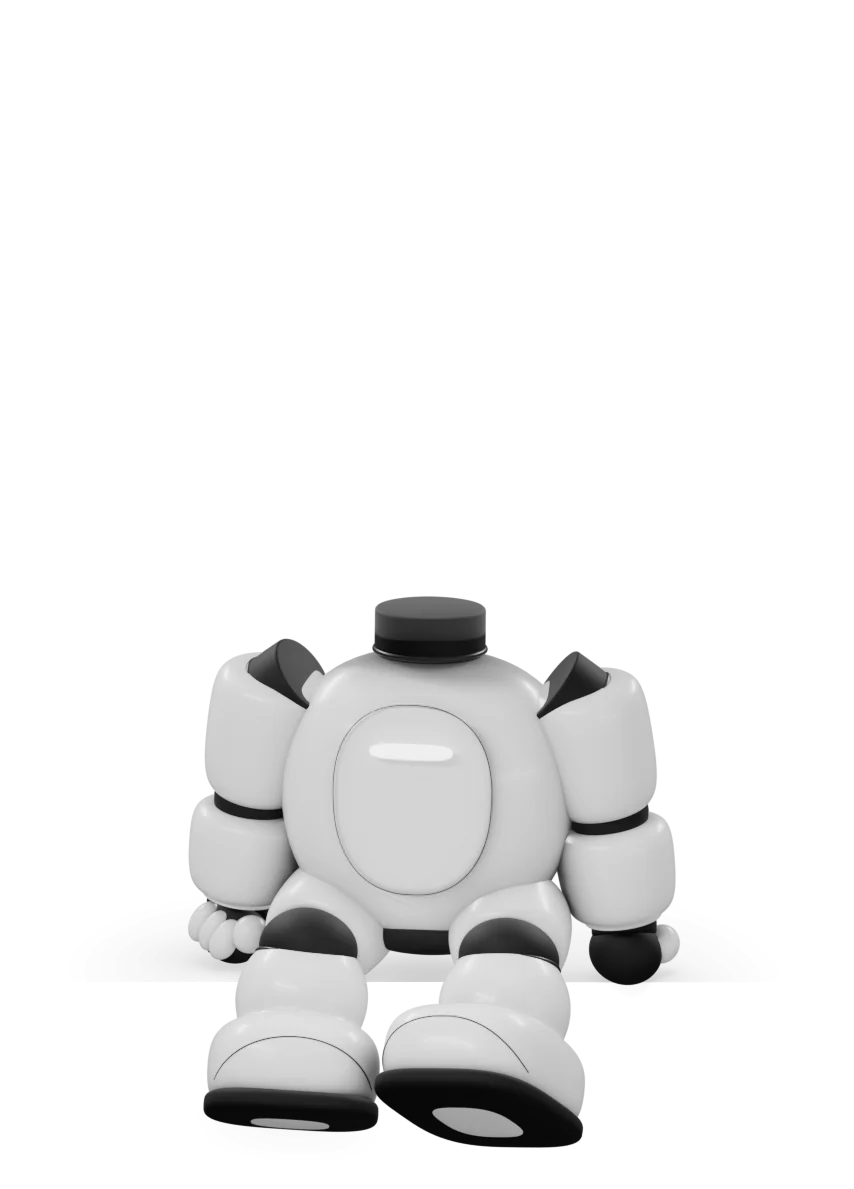
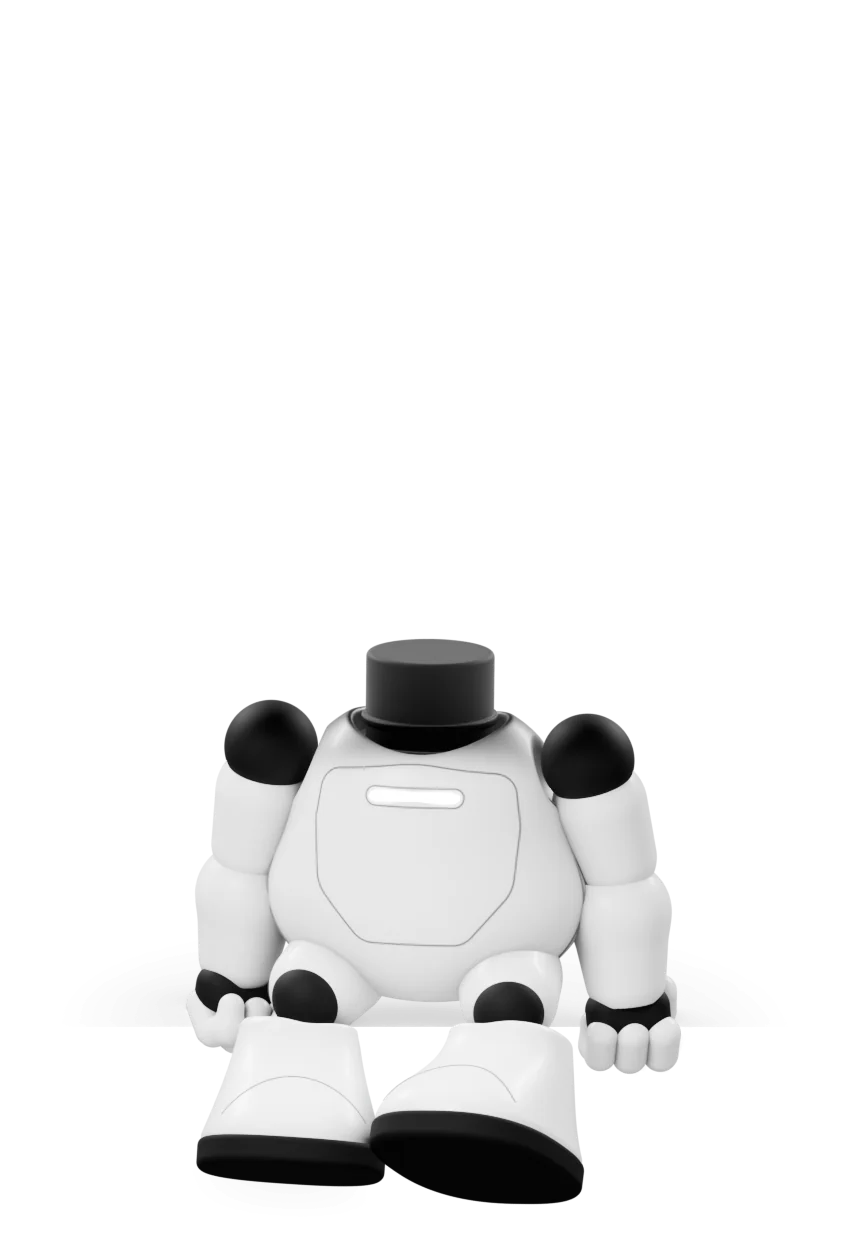
Bring Milo close to his concept art: a flush face plate round the visor with a chin plate, a taller round head with horn ears and the concept's seams, a rebuilt body with a neck, ball shoulders, tapered arms, flared boots and solid soles, bigger fists, and a whiter light theme and a charcoal dark on
The renders grew taller for the ears (854 x 1245), so the figure numbers, the stylesheets that repeat them and the image sizes hints move with them, and tests now check those and the images' real sizes against milo-figure.ts.

Changed region(s): [[0.2131, 0.4979, 0.7916, 0.9647]]

diff --git a/src/components/site/MiloHome.module.css b/src/components/site/MiloHome.module.css
@@ -34,7 +34,7 @@
 .stage {
   --edge: 16px;
   --milo-h: min(36svh, 88vw, 380px);
-  --milo-w: calc(var(--milo-h) * 854 / 1189);
+  --milo-w: calc(var(--milo-h) * 854 / 1245);
   --legs: calc(var(--milo-h) * .16);
   --line-l: var(--edge);
   position: relative;
@@ -52,7 +52,7 @@
 /* Milo, his line, and what he says. --seat-x is where he sits, from the stage's left edge; until the page knows the
    visitor's next lesson, he sits at the first. */
 .scene {
-  --line-y: calc(var(--milo-h) * .82606 + 4px);
+  --line-y: calc(var(--milo-h) * .82485 + 4px);
   position: relative;
   flex: none;
   height: calc(var(--line-y) + var(--legs) + 86px);
@@ -63,7 +63,7 @@
 .parts { top: calc(var(--line-y) + var(--legs) + 10px); left: var(--line-l); right: var(--edge); }
 .seat {
   position: absolute;
-  top: calc(var(--line-y) - var(--milo-h) * .82606);
+  top: calc(var(--line-y) - var(--milo-h) * .82485);
   left: 0;
   z-index: 2;
   width: var(--milo-w);
@@ -99,12 +99,12 @@
   letter-spacing: -.012em;
   text-decoration: none;
   text-wrap: balance;
-  transform: translate(calc(var(--at) + var(--milo-w) * .3 + 6px), -100%);
+  transform: translate(calc(var(--at) + var(--milo-w) * .34 + 6px), -100%);
   transition: transform 1.1s var(--fluid), background .2s ease, scale .5s var(--fluid), opacity .28s ease, visibility 0s;
   -webkit-backdrop-filter: blur(16px) brightness(1.08);
   backdrop-filter: blur(16px) brightness(1.08);
 }
-.bubbleLeft { border-radius: 20px 20px 6px 20px; transform: translate(calc(var(--at) - var(--milo-w) * .3 - 6px - 100%), -100%); }
+.bubbleLeft { border-radius: 20px 20px 6px 20px; transform: translate(calc(var(--at) - var(--milo-w) * .34 - 6px - 100%), -100%); }
 .bubble:hover { background: var(--glass-strong); scale: 1.04; }
 .bubble:active { scale: .97; }
 .bubble { transform-origin: left bottom; }

diff --git a/src/components/site/Milo.module.css b/src/components/site/Milo.module.css
@@ -1,9 +1,9 @@
 /* Milo and the course line he sits on. The figure is two Blender renders; only his eyes, the line and its ticks are drawn
    here, all in the site's neutrals, with the labs' orange kept for the one tick that's next. */
 
-.figure { position: relative; aspect-ratio: 854 / 1189; pointer-events: none; -webkit-user-select: none; user-select: none; }
+.figure { position: relative; aspect-ratio: 854 / 1245; pointer-events: none; -webkit-user-select: none; user-select: none; }
 .layer { position: absolute; inset: 0; display: block; width: 100%; height: 100%; }
-.head { position: absolute; inset: 0; transform: translate(var(--hx, 0%), var(--hy, 0%)) rotate(var(--tilt, 0deg)); transform-origin: 50.383% 52.69%; }
+.head { position: absolute; inset: 0; transform: translate(var(--hx, 0%), var(--hy, 0%)) rotate(var(--tilt, 0deg)); transform-origin: 50.383% 54.336%; }
 .breath { position: absolute; inset: 0; }
 .eyes { position: absolute; inset: 0; width: 100%; height: 100%; overflow: visible; }
 .gaze { transform: translate(var(--gx, 0px), var(--gy, 0px)); }

diff --git a/src/components/site/MiloHome.tsx b/src/components/site/MiloHome.tsx
@@ -27,8 +27,8 @@ const lessons = (count: number) => `${count} ${count === 1 ? "lesson" : "lessons
 // How much of the figure's width his body takes up at the line, which is what has to stay on the stage.
 // His head is the widest part of him, and it all has to stay on the stage and clear of the words.
 const HEAD_SHARE = 0.42;
-// His width on screen: his height times 854/1189, from the stage's --milo-h on each layout.
-const FIGURE_SIZES = "(min-width: 960px) and (min-height: 600px) min(40vh, 29vw), (max-height: 599px) and (min-width: 640px) min(56vh, 29vw), min(26vh, 63vw, 273px)";
+// His width on screen: his height times 854/1245, from the stage's --milo-h on each layout.
+const FIGURE_SIZES = "(min-width: 960px) and (min-height: 600px) min(38vh, 27vw), (max-height: 599px) and (min-width: 640px) min(54vh, 27vw), min(25vh, 60vw, 261px)";
 
 // When the course line can't run, or without JavaScript, everything below the words lies flat and the chapter list shows.
 const FLAT_PAGE = "[data-home-scene],[data-home-goal],[data-home-bubble]{display:none!important}"

diff --git a/src/lib/milo-figure.ts b/src/lib/milo-figure.ts
@@ -4,18 +4,18 @@
 
 export const MILO = {
   width: 854,
-  height: 1189,
+  height: 1245,
   /** Width of the smaller layers, for phones. */
   small: 461,
   /** The middle of the seat, on the front edge of the ledge he sits on. */
-  seat: [0.5, 0.82606],
+  seat: [0.5, 0.82485],
   /** His eyes, left then right on the image, as ellipses on his face's screen. */
   eyes: [
-    { x: 0.37639, y: 0.40712, rx: 0.03769, ry: 0.04422 },
-    { x: 0.63126, y: 0.40712, rx: 0.03769, ry: 0.04422 },
+    { x: 0.37639, y: 0.42897, rx: 0.03769, ry: 0.04223 },
+    { x: 0.63126, y: 0.42897, rx: 0.03769, ry: 0.04223 },
   ],
   /** The screen his eyes are drawn on. */
-  display: { x: 0.50383, y: 0.4121, rx: 0.30067, ry: 0.09876 },
+  display: { x: 0.50383, y: 0.43373, rx: 0.30067, ry: 0.09431 },
   /** Where the head turns on the neck. */
-  neck: [0.50383, 0.5269],
+  neck: [0.50383, 0.54336],
 } as const;

diff --git a/src/components/site/CourseNav.module.css b/src/components/site/CourseNav.module.css
@@ -3,9 +3,9 @@
 
 .scene {
   --milo-h: clamp(230px, 30vw, 330px);
-  --milo-w: calc(var(--milo-h) * 854 / 1189);
+  --milo-w: calc(var(--milo-h) * 854 / 1245);
   --legs: calc(var(--milo-h) * .16);
-  --line-y: calc(var(--milo-h) * .82606 + 8px);
+  --line-y: calc(var(--milo-h) * .82485 + 8px);
   position: relative;
   min-width: 0;
   height: calc(var(--line-y) + var(--legs) + 78px);
@@ -15,7 +15,7 @@
 .partsBox { top: calc(var(--line-y) + var(--legs) + 10px); right: 0; left: 0; }
 .seat {
   position: absolute;
-  top: calc(var(--line-y) - var(--milo-h) * .82606);
+  top: calc(var(--line-y) - var(--milo-h) * .82485);
   left: 0;
   z-index: 2;
   width: var(--milo-w);

diff --git a/src/components/site/CourseMap.tsx b/src/components/site/CourseMap.tsx
@@ -163,7 +163,7 @@ function CourseLine(props: CourseNavProps) {
           partsClassName={navStyles.partsBox}
         />
         <div className={navStyles.seat}>
-          <MiloFigure figureRef={figure} className={navStyles.figure} sizes="clamp(165px, 22vw, 237px)" />
+          <MiloFigure figureRef={figure} className={navStyles.figure} sizes="clamp(158px, 21vw, 226px)" />
         </div>
       </div>
 

diff --git a/docs/design-system.md b/docs/design-system.md
@@ -55,6 +55,13 @@ Charts use blue for successful work and orange for offered load, with validated 
 
 Milo is the site's character: a small robot with a screen for a face, sitting on the course line. He's original to SystemKit, designed from concept art and built in Blender, and he stays in the site's neutrals: white satin in the light theme, charcoal in the dark, with only his eyes and the little lights on his chin and chest glowing. The page shows him as two Cycles renders, his body (with the ledge's contact shadow folded in) and his head, each a WebP of a few tens of kilobytes in each theme, chosen by `prefers-color-scheme`. His face's screen is left blank in the renders and his eyes are drawn on it by the page, so they can blink, look at the pointer or at whatever the page is pointing at, squint happily when the main action is pointed at, and open for the dive. His head leans a little after his eyes and he breathes; all of it is a transform or a CSS variable, it stops when he's off screen or nothing has happened for 45 seconds, and none of it runs for anyone who prefers reduced motion. Where he sits on the line is a transform too, so moving him never shifts the layout.
 
-The sources are in the Milo project (`systemkit-milo`): `Milo-sitting-light.blend` and `Milo-sitting-dark.blend` hold the pose, the ledge as a shadow catcher, and the studio light, and the `sitting` folder has the scripts that pose him from the rig, render the layers, and crop them to `public/milo`. The geometry the page needs from those renders, where his eyes, screen, neck and seat land on the images, is in `src/lib/milo-figure.ts`; regenerate it with the renders whenever the pose or camera changes.
+His shape follows the concept art. His head is tall and round, its cheeks curving round his screen, and its crown grows two thick horn-like ears. Each ear curls out at the tip, with a dark crescent along its inner edge. The screen sits flush in a face plate that is part of the head, bounded by a thin seam, with a separate chin plate below holding the chin light. Short seams split the forehead under a crown line that runs along the ears' bases. His body is a bell-shaped torso with a flush shield on the chest. It has a dark neck in a collar well, dark ball shoulders the arms hang from, tapered arms, fists of white finger segments over a dark palm, and dark knees seated in flared boots on dark soles. In the light theme he renders white under broad soft light. In the dark theme he is charcoal, with thin rim light tracing his outline. The visor is dark gloss glass, and the chin and chest lights glow.
+
+The sources are in the Milo project (`systemkit-milo`). `Milo-sitting-v2-light.blend` and `Milo-sitting-v2-dark.blend` hold the pose, the ledge as a shadow catcher, and the studio light. The `sitting` folder has the scripts that rebuild them, in order:
+1. `head.py`, `body.py` and `hand.py` build the head, the body and the left fist as signed-distance shapes, meshed with marching cubes (they need numpy and scikit-image). Their numbers are in `head.json`, `body.json` and `hand.json`; `hand.py` also reads the hand bone's frame from `rig.json`, which `rig.py` writes.
+2. `final.sh` puts those meshes on the rig (`shape.py`; `hands.py` mirrors the fist onto the right hand), poses him, applies the studio look from `look-light.json` / `look-dark.json`, and renders both themes' layers.
+3. `KEEP_W=854 python3 assets.py <out> <repo>` crops the layers into `public/milo` and prints the figure geometry. `KEEP_W` keeps the width the page was laid out for. Copy the printed numbers into `src/lib/milo-figure.ts` by hand.
+
+The geometry the page needs from those renders, where his eyes, screen, neck and seat land on the images, is in `src/lib/milo-figure.ts`. Regenerate it with the renders whenever the pose, the camera or his outline changes. The images' aspect ratio, seat and neck are also written into `Milo.module.css`, `MiloHome.module.css` and `CourseNav.module.css`. The images' `sizes` hints in `MiloHome.tsx` and `CourseMap.tsx` are his height on each layout times that aspect ratio. Tests check all of these agree with `milo-figure.ts`.
 
 The chapter list stays in the page for search engines and screen readers, and it shows instead whenever the course line can't run. Anything that can be done on the line can also be done in the panel beside it, in ruled rows. The learning path page uses the same line, with Milo at the next lesson and the shown chapter's lessons beside him.
